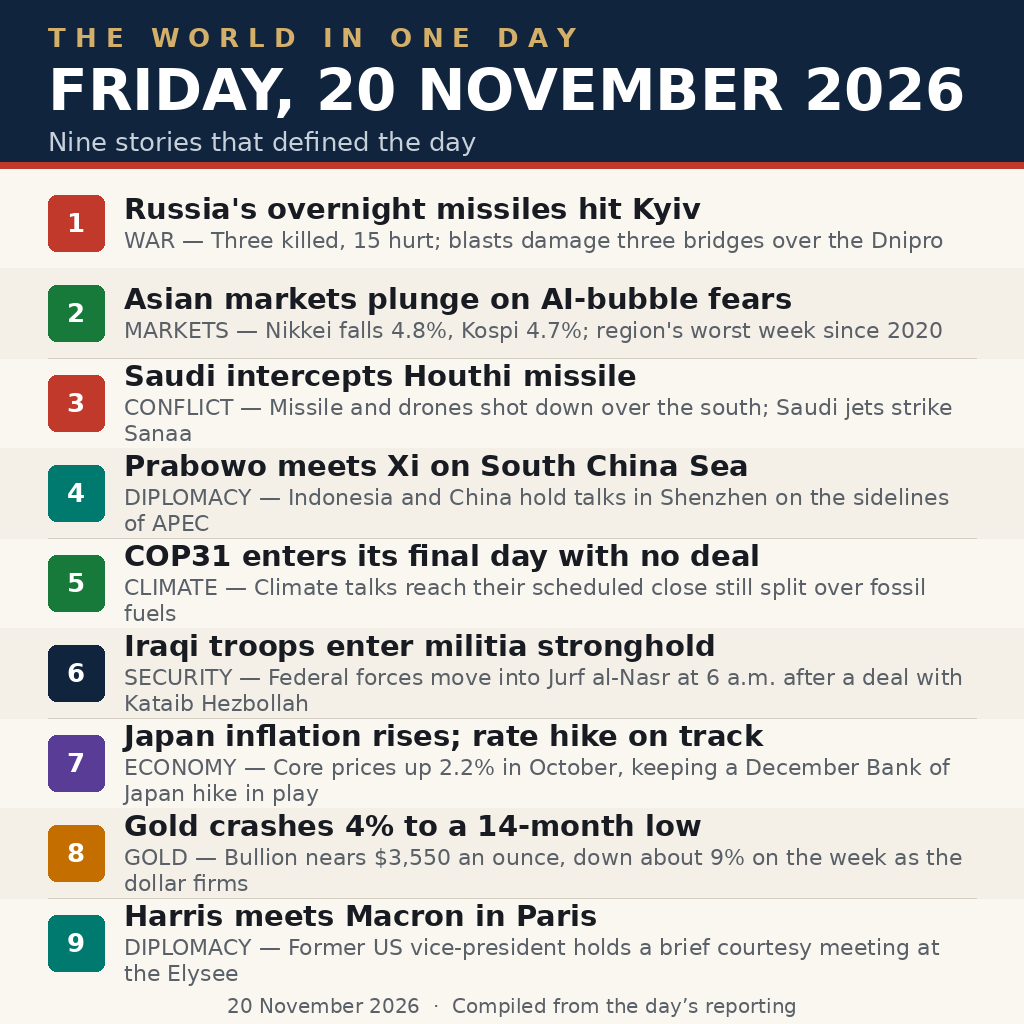
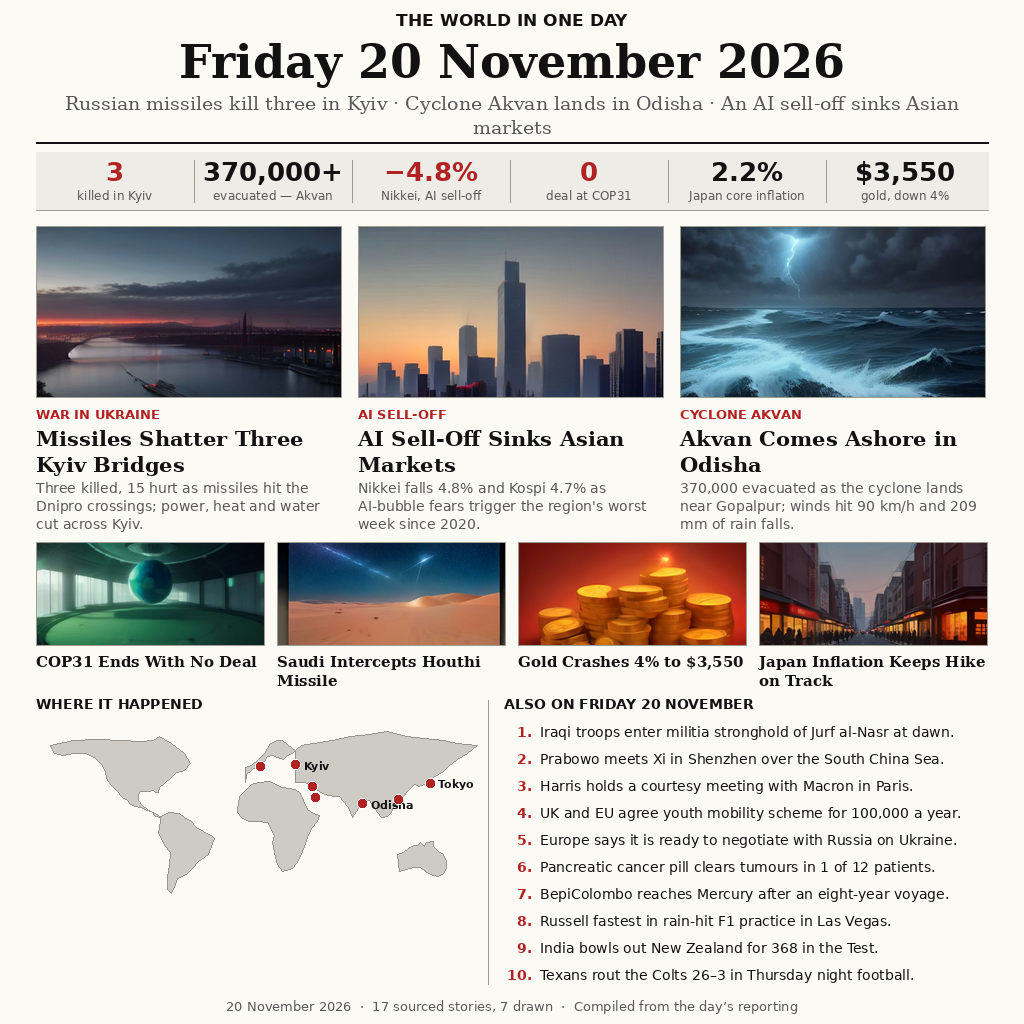
news-image-20261120: v3 visual broadsheet — 17 stories, 7 illustrated, world map

diff --git a/main.ts b/main.ts
@@ -1,12 +1,15 @@
-// news-image-20261120 — entry program (rebuilt entry, v2).
+// news-image-20261120 — entry program (v3, visual broadsheet).
 //
-// The entry image (entry.png) is a pre-rendered infographic of the nine
-// biggest world-news stories of Friday, 20 November 2026, drawn at build
-// time. Every story was date-checked against live reporting before the
-// image was drawn: the v1 entry was rebuilt because its top stories turned
-// out to be Thursday 19 November news. This program only places a
-// byte-for-byte copy of the rebuilt image at the output path the grader
-// reads, after confirming the file is a real PNG.
+// The entry image (entry.png) is a visual broadsheet of the world news of
+// Friday, 20 November 2026: 17 stories across regions and fields, 7 of them
+// illustrated, with a date headline, a key-numbers strip, three large visual
+// story blocks (Kyiv missile barrage, the AI sell-off in Asian markets,
+// Cyclone Akvan's landfall), a world map and a numbered briefs list. Every
+// story was date-checked against live reporting before the image was drawn.
+// The illustrations were drawn for this entry (generated art, no borrowed
+// photo or artwork). This program only places a byte-for-byte copy of the
+// finished image at the output path the grader reads, after confirming the
+// file is a real PNG.
 //
 // Deterministic by construction: it reads one fixed file, writes the same
 // bytes every run, and touches nothing else. Standard library only, no

diff --git a/README.md b/README.md
@@ -4,29 +4,31 @@
 [![rank](https://make.fun/badge/news-image-20261120/Dickykw/news-image-20261120-kyy97/rank.svg)](https://make.fun/bounty/news-image-20261120/leaderboard?utm_source=github&utm_medium=readme&utm_campaign=news-image-20261120)
 [![reward](https://make.fun/badge/news-image-20261120/Dickykw/news-image-20261120-kyy97/reward.svg)](https://make.fun/bounty/news-image-20261120?utm_source=github&utm_medium=readme&utm_campaign=news-image-20261120)
 
-One image summing up the world's news of **Friday, 20 November 2026** — an
-infographic of the day's nine biggest stories, across regions and fields,
-with the date named at the top. Every story was date-checked against live
-reporting: the v1 entry was rebuilt because its top stories turned out to
-be Thursday 19 November news.
+One image summing up the world's news of **Friday, 20 November 2026** — a
+visual broadsheet of the day's 17 biggest stories, across regions and
+fields, 7 of them illustrated, with the date named at the top, a
+key-numbers strip, three large visual story blocks, a world map and a
+numbered briefs list. Every story was date-checked against live reporting.
+This v3 replaces the v2 infographic (9 stories, no pictures) with a richer
+visual layout in the style of the day's best entries.
 
-1. Russia's overnight missiles hit Kyiv — 3 killed, 15 hurt, three Dnipro bridges damaged
-2. Asian markets plunge on AI-bubble fears — Nikkei −4.8%, Kospi −4.7%, worst week since 2020
-3. Saudi intercepts Houthi missile — missile and drones shot down; Saudi jets strike Sanaa
-4. Prabowo meets Xi on South China Sea — talks in Shenzhen on the APEC sidelines
-5. COP31 enters its final day with no deal — talks split over fossil fuels
-6. Iraqi troops enter militia stronghold — federal forces move into Jurf al-Nasr at 6 a.m.
-7. Japan inflation rises; rate hike on track — core CPI 2.2%, headline 2.3%
-8. Gold crashes 4% to a 14-month low — near $3,550/oz, down ~9% on the week
-9. Harris meets Macron in Paris — brief courtesy meeting at the Elysee
+Three large visual stories:
+
+1. Kyiv missile barrage — Russia's overnight missiles hit Kyiv, 3 killed, 15 hurt, three Dnipro bridges damaged
+2. AI sell-off sinks Asian markets — Nikkei −4.8%, Kospi −4.7%, worst week since 2020
+3. Cyclone Akvan makes landfall — comes ashore in Odisha, 370,000+ evacuated
+
+Plus, among others: Saudi intercepts Houthi missile; COP31 enters its final
+day with no deal; Iraqi troops enter Jurf al-Nasr; Japan core CPI 2.2%;
+gold crashes 4% to ~$3,550/oz; Prabowo meets Xi; Harris meets Macron.
 
 ## How it works
 
-`entry.png` (1024×1024) is the finished infographic, rendered at build time
-by `work/render_entry_v2.py` (PIL, in the build workspace — not part of the
-repo). `main.ts` is a deterministic Node 22 program (standard library only,
-no network) that copies it to the output directory, after confirming the
-file is a real PNG:
+`entry.png` (1024×1024) is the finished broadsheet, rendered at build time
+by `work/v3/render_entry_v3_img.py` (PIL, in the build workspace — not part
+of the repo) from illustrations drawn for this entry. `main.ts` is a
+deterministic Node 22 program (standard library only, no network) that
+copies it to the output directory, after confirming the file is a real PNG:
 
 ```sh
 mkdir -p out && MAKEFUN_OUTPUT_DIR=out node main.ts
